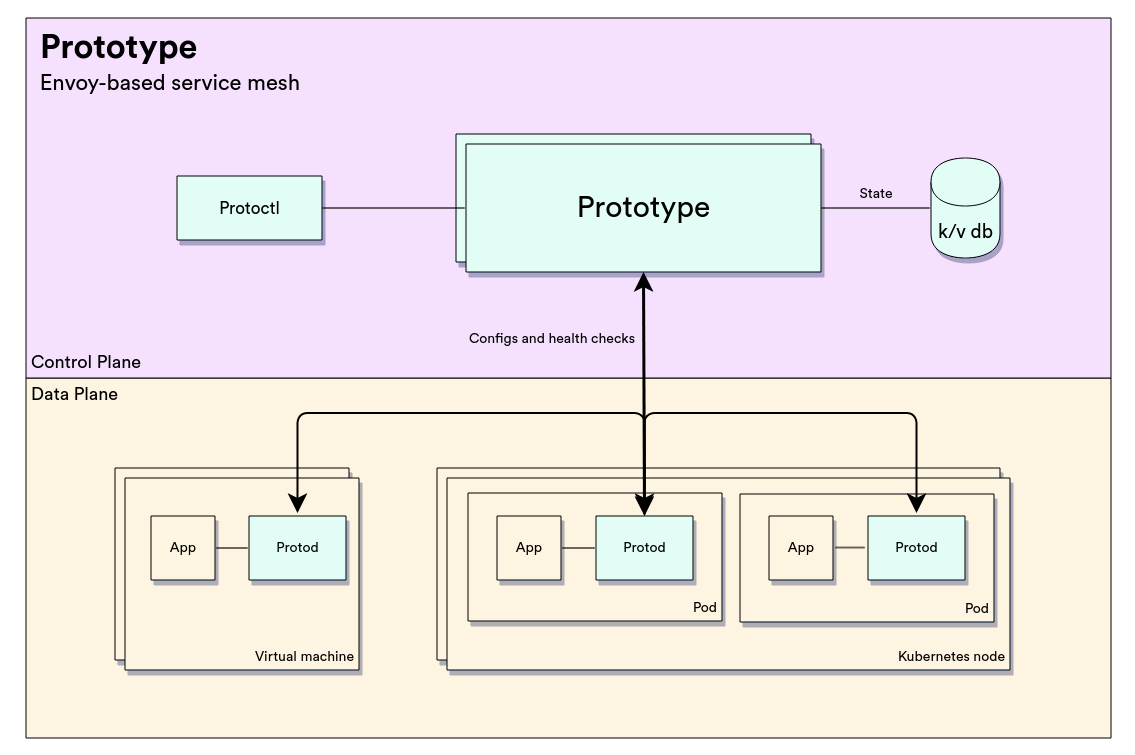
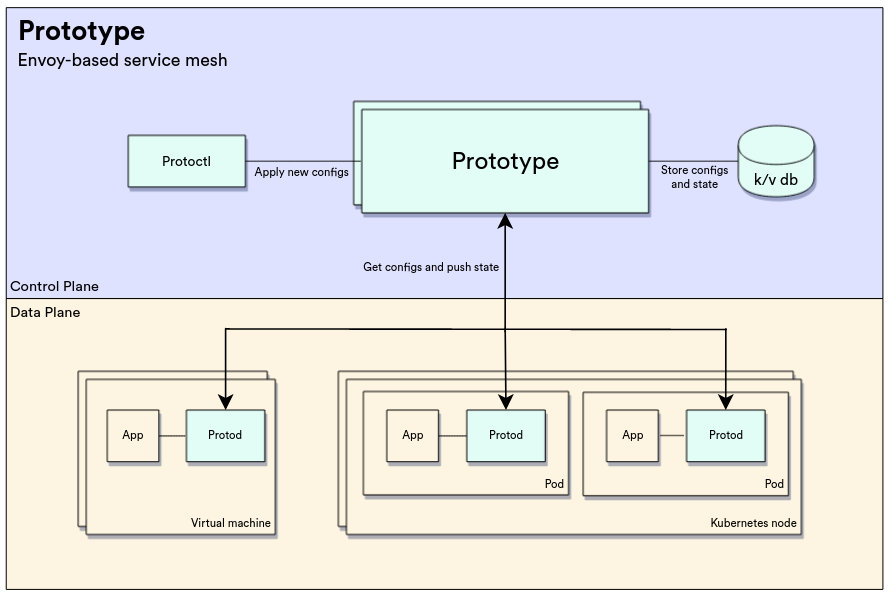
Refactor diagrams

Changed region(s): [[0.0, 0.0, 1.0, 0.995], [0.5157, 0.2412, 0.6371, 0.3015]]

diff --git a/README.md b/README.md
@@ -11,6 +11,8 @@ Prototype is a **minimal** service mesh built on top of Envoy.
 
 ![architecture](/media/architecture.png)
 
+![protod-detail](/media/protod-detail.png)
+
 ## Quickstart
 Run Prototype:
 ```
